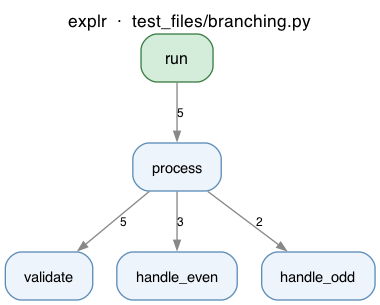
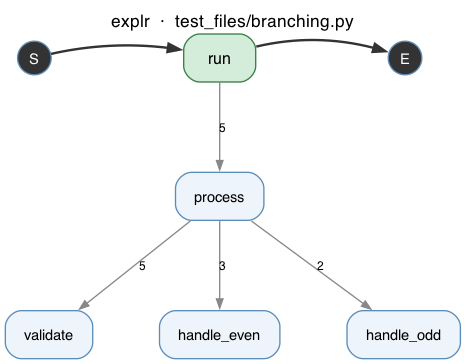
updated execution sequence logic

diff --git a/explr/renderer.py b/explr/renderer.py
@@ -1,9 +1,9 @@
 """
 Call graph rendering via graphviz.
 
-Renders a clean top-to-bottom flow diagram showing only user-defined
-function calls.  Stdlib, dunder methods, and synthetic names (<module>,
-<listcomp>, etc.) are filtered out before rendering.
+Layout: a horizontal spine of top-level entry points in execution order
+        (S) → (A) → (B) → ... → (E)
+with each spine node's sub-calls hanging below it as a subtree.
 """
 
 import importlib.util
@@ -11,7 +11,7 @@ import os
 import sysconfig
 import sys
 from pathlib import Path
-from typing import Optional
+from typing import List, Optional, Set, Tuple
 
 from .models import CallGraph, CallNode
 
@@ -20,28 +20,23 @@ try:
 except ImportError:
     graphviz = None  # type: ignore
 
+
 # ── stdlib detection ──────────────────────────────────────────────────────────
 
-def _stdlib_prefix() -> str:
-    return os.path.normcase(sysconfig.get_paths()["stdlib"])
-
-
 def _is_stdlib_module(module: str) -> bool:
-    """True if *module* is part of the standard library or a built-in."""
     if not module:
         return True
     top = module.split(".")[0]
-    # Fast path: Python 3.10+
     if hasattr(sys, "stdlib_module_names"):
         return top in sys.stdlib_module_names  # type: ignore[attr-defined]
-    # Fallback: check via importlib
     try:
         spec = importlib.util.find_spec(top)
         if spec is None:
             return False
         if spec.origin in ("built-in", "frozen", None):
             return True
-        return os.path.normcase(spec.origin).startswith(_stdlib_prefix())
+        stdlib = sysconfig.get_paths().get("stdlib", "")
+        return os.path.normcase(spec.origin).startswith(os.path.normcase(stdlib))
     except Exception:
         return False
 
@@ -49,19 +44,17 @@ def _is_stdlib_module(module: str) -> bool:
 # ── display-worthiness ────────────────────────────────────────────────────────
 
 def _is_display_node(node: CallNode) -> bool:
-    """Return True if this node should appear in the simplified flow diagram."""
     if node.module in ("<root>",):
         return False
-    if node.func.startswith("<"):          # catches all <...> synthetics
+    if node.func.startswith("<"):
         return False
     if node.func.startswith("__") and node.func.endswith("__"):
-        return False                       # skip dunder methods
-    if node.func.startswith("_"):
-        return False                       # skip private functions
+        return False
     top_module = node.module.split(".")[0]
     if top_module.startswith("_") and node.module != "__main__":
-        return False                       # skip private/internal modules
-    # __main__ is always user code even though it appears in stdlib_module_names
+        return False
+    if node.func.startswith("_"):
+        return False
     if node.module != "__main__" and _is_stdlib_module(node.module):
         return False
     return True
@@ -70,14 +63,6 @@ def _is_display_node(node: CallNode) -> bool:
 # ── filtering ─────────────────────────────────────────────────────────────────
 
 def _filter_for_display(call_graph: CallGraph) -> CallGraph:
-    """
-    Return a new CallGraph containing only display-worthy nodes/edges.
-
-    Rules:
-    - Include an edge only when both endpoints pass _is_display_node.
-    - Include a node as an "entry point" when it is a display node called
-      *from* a non-display node (e.g. called at module level).
-    """
     from .models import CallGraph as CG
 
     display_keys = {
@@ -86,14 +71,13 @@ def _filter_for_display(call_graph: CallGraph) -> CallGraph:
     }
 
     filtered = CG()
-    # Add edges that connect two display nodes
     for edge in call_graph.edges.values():
         ck = (edge.caller.module, edge.caller.func)
         ek = (edge.callee.module, edge.callee.func)
         if ck in display_keys and ek in display_keys:
-            filtered.add_call(ck[0], ck[1], ek[0], ek[1], edge.count)
+            filtered.add_call(ck[0], ck[1], ek[0], ek[1], edge.count, edge.seq)
 
-    # Ensure entry-point nodes (display nodes called from noise) exist
+    # Ensure spine nodes (display nodes called from non-display callers) exist
     for edge in call_graph.edges.values():
         ck = (edge.caller.module, edge.caller.func)
         ek = (edge.callee.module, edge.callee.func)
@@ -109,9 +93,32 @@ def _filter_for_display(call_graph: CallGraph) -> CallGraph:
 def _node_label(node: CallNode) -> str:
     if node.module in ("__main__", "", None):
         return node.func
-    # Show last segment of module for brevity
     short = node.module.split(".")[-1]
     return f"{short}.{node.func}"
+
+
+# ── spine ordering ────────────────────────────────────────────────────────────
+
+def _ordered_spine(
+    original: CallGraph,
+    display_keys: Set[Tuple[str, str]],
+    has_display_caller: Set[Tuple[str, str]],
+) -> List[Tuple[str, str]]:
+    """
+    Return spine keys sorted by the seq of their first call from a
+    non-display caller in the original (unfiltered) graph.
+    """
+    spine_keys = [k for k in display_keys if k not in has_display_caller]
+
+    def entry_seq(k: Tuple[str, str]) -> int:
+        return min(
+            (e.seq for e in original.edges.values()
+             if (e.callee.module, e.callee.func) == k
+             and (e.caller.module, e.caller.func) not in display_keys),
+            default=0,
+        )
+
+    return sorted(spine_keys, key=entry_seq)
 
 
 # ── main render ───────────────────────────────────────────────────────────────
@@ -122,17 +129,12 @@ def render(
     target_name: str,
     _graphviz_path: Optional[str] = None,
 ) -> None:
-    """
-    Render a simplified flow diagram of *call_graph* to *output_path* (.png).
-
-    Only user-defined, non-stdlib, non-dunder functions are shown.
-    If nothing remains after filtering, exits with a message and no file.
-    """
     if graphviz is None:
         raise RuntimeError(
             "graphviz Python package not found. Install it with: pip install graphviz"
         )
 
+    original = call_graph
     cg = _filter_for_display(call_graph)
 
     if not cg.nodes:
@@ -142,6 +144,25 @@ def render(
         )
         return
 
+    display_keys: Set[Tuple[str, str]] = set(cg.nodes.keys())
+    has_display_caller: Set[Tuple[str, str]] = {
+        (e.callee.module, e.callee.func) for e in cg.edges.values()
+    }
+
+    spine_keys = _ordered_spine(original, display_keys, has_display_caller)
+
+    # Fallback: no clear entry points (e.g. all nodes in a cycle)
+    if not spine_keys:
+        spine_keys = sorted(
+            display_keys,
+            key=lambda k: min(
+                (e.seq for e in cg.edges.values()
+                 if (e.callee.module, e.callee.func) == k),
+                default=0,
+            ),
+        )
+
+    # ── build DOT ─────────────────────────────────────────────────────────────
     dot = graphviz.Digraph(comment=f"explr: {target_name}")
     dot.attr(
         rankdir="TB",
@@ -150,7 +171,8 @@ def render(
         fontsize="13",
         labelloc="t",
         bgcolor="white",
-        splines="polyline",
+        nodesep="0.7",
+        ranksep="0.8",
     )
     dot.attr(
         "node",
@@ -164,25 +186,66 @@ def render(
     )
     dot.attr("edge", color="#888888", fontname="Helvetica", fontsize="9", arrowsize="0.7")
 
-    # Identify entry-point nodes (no display-node callers)
-    has_display_caller = {
-        (e.callee.module, e.callee.func)
-        for e in cg.edges.values()
-    }
-    entry_keys = {k for k in cg.nodes if k not in has_display_caller}
+    # ── START / END terminal nodes ────────────────────────────────────────────
+    _term = dict(
+        shape="circle",
+        style="filled",
+        fillcolor="#333333",
+        fontcolor="white",
+        fontname="Helvetica",
+        fontsize="11",
+        width="0.35",
+        fixedsize="true",
+        margin="0",
+    )
+    dot.node("__START__", "S", **_term)
+    dot.node("__END__", "E", **_term)
 
+    # ── Spine row: same rank so they sit on one horizontal line ───────────────
+    with dot.subgraph() as s:
+        s.attr(rank="same")
+        s.node("__START__")
+        for k in spine_keys:
+            node = cg.nodes[k]
+            s.node(
+                node.node_id(),
+                _node_label(node),
+                fillcolor="#D4EDDA",
+                color="#3A7D44",
+                fontsize="12",
+            )
+        s.node("__END__")
+
+    # Invisible weighted edges enforce left-to-right ordering within the rank
+    prev = "__START__"
+    for k in spine_keys:
+        nid = cg.nodes[k].node_id()
+        dot.edge(prev, nid, style="invis", weight="10")
+        prev = nid
+    dot.edge(prev, "__END__", style="invis", weight="10")
+
+    # Visible spine arrows — constraint=false keeps them from affecting layout
+    prev = "__START__"
+    for k in spine_keys:
+        nid = cg.nodes[k].node_id()
+        dot.edge(prev, nid, constraint="false", color="#333333",
+                 arrowsize="0.9", penwidth="1.8")
+        prev = nid
+    dot.edge(prev, "__END__", constraint="false", color="#333333",
+             arrowsize="0.9", penwidth="1.8")
+
+    # ── Non-spine display nodes ───────────────────────────────────────────────
+    spine_set = set(spine_keys)
     for key, node in cg.nodes.items():
-        nid = node.node_id()
-        label = _node_label(node)
-        if key in entry_keys:
-            dot.node(nid, label, fillcolor="#D4EDDA", color="#3A7D44", fontsize="12")
-        else:
-            dot.node(nid, label)
+        if key not in spine_set:
+            dot.node(node.node_id(), _node_label(node))
 
+    # ── Sub-call edges (flow downward from spine into subtrees) ───────────────
     for edge in cg.edges.values():
         label = str(edge.count) if edge.count > 1 else ""
         dot.edge(edge.caller.node_id(), edge.callee.node_id(), label=label)
 
+    # ── Render to PNG ─────────────────────────────────────────────────────────
     out = Path(output_path)
     out.parent.mkdir(parents=True, exist_ok=True)
     base = str(out.with_suffix(""))

diff --git a/explr/tracer.py b/explr/tracer.py
@@ -53,7 +53,8 @@ def _is_stdlib(filename):
     fn = _os.path.normcase(_os.path.abspath(filename))
     return any(fn.startswith(_os.path.normcase(p)) for p in _stdlib_paths if p)
 
-_edges = {{}}   # (cm, cf, em, ef) -> count
+_seq_ctr = [0]
+_edges = {{}}   # (cm, cf, em, ef) -> [count, seq]
 _stack = []    # [(module, func)]
 
 def _trace(frame, event, arg):
@@ -70,7 +71,10 @@ def _trace(frame, event, arg):
 
         caller = _stack[-1] if _stack else ("<root>", "<root>")
         key    = (caller[0], caller[1], module, func)
-        _edges[key] = _edges.get(key, 0) + 1
+        if key not in _edges:
+            _edges[key] = [0, _seq_ctr[0]]
+            _seq_ctr[0] += 1
+        _edges[key][0] += 1
         _stack.append((module, func))
         return _trace
 
@@ -85,8 +89,8 @@ def _save():
     data = [
         {{"caller_module": cm, "caller_func": cf,
           "callee_module": em, "callee_func": ef,
-          "count": cnt}}
-        for (cm, cf, em, ef), cnt in _edges.items()
+          "count": v[0], "seq": v[1]}}
+        for (cm, cf, em, ef), v in _edges.items()
     ]
     try:
         with open(_OUTPUT, "w") as _f:

diff --git a/explr/models.py b/explr/models.py
@@ -23,6 +23,7 @@ class CallEdge:
     caller: CallNode
     callee: CallNode
     count: int = 1
+    seq: int = 0   # sequence number of first occurrence
 
 
 @dataclass
@@ -31,7 +32,8 @@ class CallGraph:
     edges: Dict[Tuple, CallEdge] = field(default_factory=dict)
 
     def add_call(self, caller_module: str, caller_func: str,
-                 callee_module: str, callee_func: str, count: int = 1) -> None:
+                 callee_module: str, callee_func: str,
+                 count: int = 1, seq: int = 0) -> None:
         caller_key = (caller_module, caller_func)
         callee_key = (callee_module, callee_func)
         if caller_key not in self.nodes:
@@ -46,6 +48,7 @@ class CallGraph:
                 self.nodes[caller_key],
                 self.nodes[callee_key],
                 count,
+                seq,
             )
 
     @classmethod
@@ -58,5 +61,6 @@ class CallGraph:
                 entry["callee_module"],
                 entry["callee_func"],
                 entry.get("count", 1),
+                entry.get("seq", 0),
             )
         return graph
